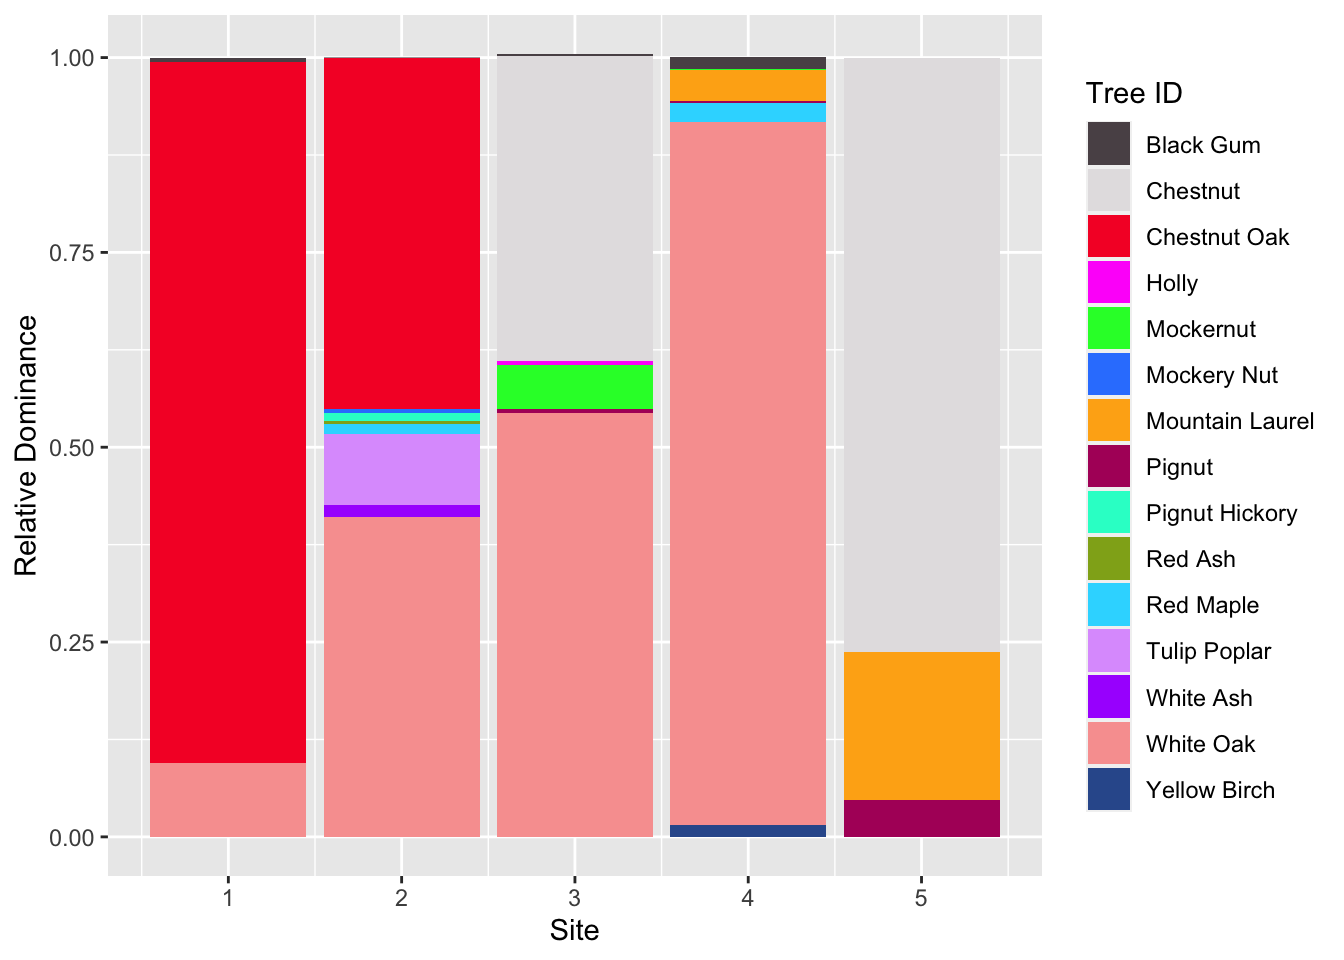
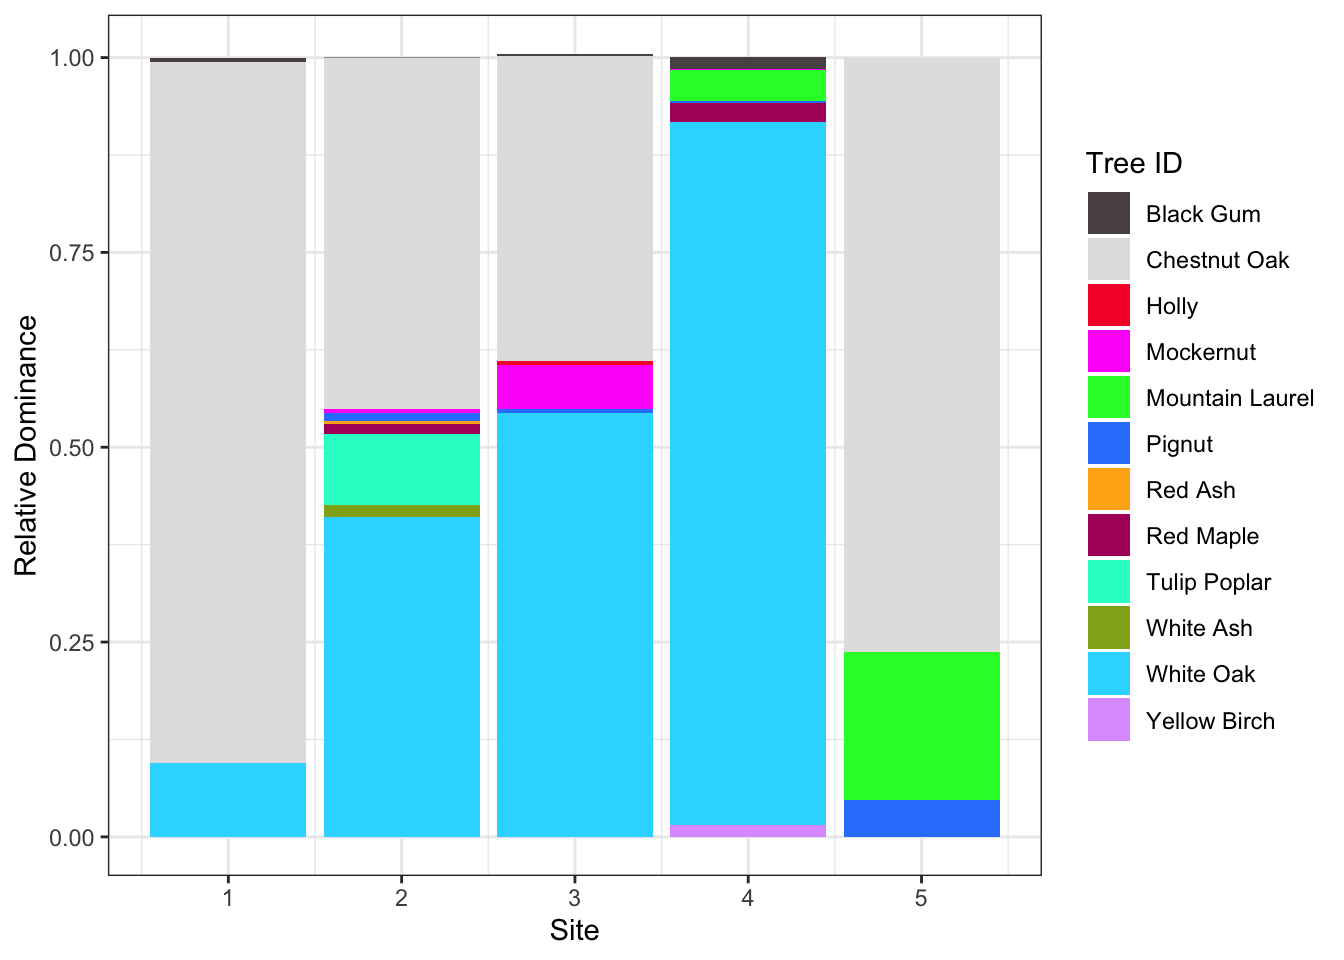
fixed error in comm. composition

diff --git a/docs/forest-lab-data-analysis-results.html b/docs/forest-lab-data-analysis-results.html
@@ -456,7 +456,8 @@ rel_freq =<span class="st"> </span>forest <span class="op">%&gt;%</span><span cl
                <span class="dt">fill =</span> <span class="st">`</span><span class="dt">Tree ID</span><span class="st">`</span>), <span class="dt">stat =</span> <span class="st">&quot;identity&quot;</span>) <span class="op">+</span>
 <span class="st">  </span>
 <span class="st">  </span><span class="co">#add color palette </span>
-<span class="st">  </span><span class="kw">scale_fill_manual</span>(<span class="dt">values =</span> <span class="kw">as.vector</span>(pals<span class="op">::</span><span class="kw">polychrome</span>(<span class="dv">35</span>)))</code></pre></div>
+<span class="st">  </span><span class="kw">scale_fill_manual</span>(<span class="dt">values =</span> <span class="kw">as.vector</span>(pals<span class="op">::</span><span class="kw">polychrome</span>(<span class="dv">35</span>)))<span class="op">+</span>
+<span class="st">  </span><span class="kw">theme_bw</span>()</code></pre></div>
 <p><img src="EVCS-3201_files/figure-html/unnamed-chunk-13-1.png" width="672" /></p>
 </div>
 <div id="species-relative-dominance" class="section level3 unnumbered">
@@ -476,7 +477,8 @@ rel_dom =<span class="st"> </span>forest <span class="op">%&gt;%</span><span cla
                <span class="dt">fill =</span> <span class="st">`</span><span class="dt">Tree ID</span><span class="st">`</span>), <span class="dt">stat =</span> <span class="st">&quot;identity&quot;</span>) <span class="op">+</span>
 <span class="st">  </span>
 <span class="st">  </span><span class="co">#add color palette </span>
-<span class="st">  </span><span class="kw">scale_fill_manual</span>(<span class="dt">values =</span> <span class="kw">as.vector</span>(pals<span class="op">::</span><span class="kw">polychrome</span>(<span class="dv">35</span>)))</code></pre></div>
+<span class="st">  </span><span class="kw">scale_fill_manual</span>(<span class="dt">values =</span> <span class="kw">as.vector</span>(pals<span class="op">::</span><span class="kw">polychrome</span>(<span class="dv">35</span>)))<span class="op">+</span>
+<span class="st">  </span><span class="kw">theme_bw</span>()</code></pre></div>
 <p><img src="EVCS-3201_files/figure-html/unnamed-chunk-14-1.png" width="672" /></p>
 </div>
 <div id="species-importance" class="section level3 unnumbered">
@@ -497,7 +499,8 @@ importance =<span class="st"> </span>forest <span class="op">%&gt;%</span><span 
            <span class="dt">position =</span> <span class="st">&quot;dodge&quot;</span>, <span class="dt">stat =</span> <span class="st">&quot;identity&quot;</span>) <span class="op">+</span>
 <span class="st">  </span>
 <span class="st">  </span><span class="co">#add color palette </span>
-<span class="st">  </span><span class="kw">scale_fill_manual</span>(<span class="dt">values =</span> <span class="kw">as.vector</span>(pals<span class="op">::</span><span class="kw">polychrome</span>(<span class="dv">35</span>)))</code></pre></div>
+<span class="st">  </span><span class="kw">scale_fill_manual</span>(<span class="dt">values =</span> <span class="kw">as.vector</span>(pals<span class="op">::</span><span class="kw">polychrome</span>(<span class="dv">35</span>))) <span class="op">+</span>
+<span class="st">  </span><span class="kw">theme_bw</span>()</code></pre></div>
 <p><img src="EVCS-3201_files/figure-html/unnamed-chunk-15-1.png" width="672" /></p>
 
 </div>
